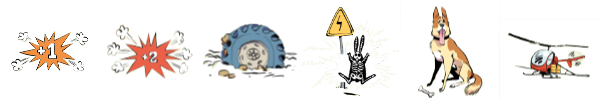
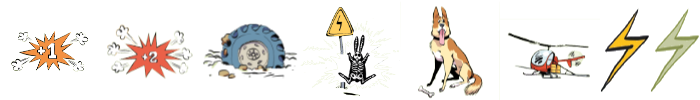
css sprites for tiles and barns

diff --git a/src/Game/style.scss b/src/Game/style.scss
@@ -66,16 +66,16 @@ body {
     position: absolute;
 }
 .player {
-    background-size: contain;
-    background-repeat: no-repeat;
+    background-image: url(~img/players.png);
+    background-size: 400% 300%;
     width: 2.5%;
     height: 2.5%;
     position: absolute;
 }
 
 .tile {
-    background-size: contain;
-    background-repeat: no-repeat;
+    background-image: url(~img/tiles.png);
+    background-size: 600% 100%;
     width: 9%;
     height: 9%;
     position: absolute;
@@ -107,15 +107,15 @@ body {
 }
 
 .barn {
-    background-size: contain;
     width: 9%;
     height: 9%;
     position: absolute;
-    background-image: url(~img/barn.png);
-    background-repeat: no-repeat;
+    background-image: url(~img/tiles.png);
+    background-size: 600% 100%;
+    background-position: -400% 0;
 }
 .barn.occupied {
-    background-image: url(~img/barn-occupied.png);
+    background-position: -500% 0;
 }
 
 i.fa-bars {
@@ -288,16 +288,17 @@ i.fa-bars {
 
 
     .flash {
-        background-image: url(~img/flash.png);
-        width: 1.5em;
+        background-image: url(~img/markers.png);
+        background-size: 1400% 100%;
+        background-position: 200% 0;
+        width: 0.75em;
         height: 1.5em;
+        margin-right: 0.15em;
         display: inline-block;
-        background-size: contain;
-        background-repeat: no-repeat;
     }
 
     .flash.inactive {
-        background-image: url(~img/flash-inactive.png);
+       background-position-x: 100%;
     }
 }
 
@@ -483,29 +484,10 @@ i.fa-bars {
             position: static;
         }
 
-        .blue {
-            .player:hover {
-                background-image: url(~img/selected-player-blue.png);
-            }
+        .player:hover {
+            background-position-y: -100%;
         }
 
-        .yellow {
-            .player:hover {
-                background-image: url(~img/selected-player-yellow.png);
-            }
-        }
-
-        .purple {
-            .player:hover {
-                background-image: url(~img/selected-player-purple.png);
-            }
-        }
-
-        .red {
-            .player:hover {
-                background-image: url(~img/selected-player-red.png);
-            }
-        }
     }
 }
 
@@ -530,7 +512,7 @@ i.fa-bars {
         width: 2.5em;
         height: 2.5em;
         background-image: url(~img/markers.png);
-        background-size: 600% 100%;
+        background-size: 700% 100%;
         background-position-y: 0;
         display: inline-block;
     }
@@ -610,19 +592,19 @@ i.fa-bars {
     }
 
     .player {
-        background-image: url(~img/player-blue.png);
+        background-position: 0 0;
     }
 
     .player.selected {
-        background-image: url(~img/selected-player-blue.png);
+        background-position: 0 -100%;
     }
 
     .player.ko {
-        background-image: url(~img/ko-player-blue.png);
+        background-position: 0 -200%;
     }
 
     .tile {
-        background-image: url(~img/tile-blue.png);
+        background-position: 0 0;
     }
 }
 .yellow {
@@ -631,38 +613,17 @@ i.fa-bars {
     }
 
     .player {
-        background-image: url(~img/player-yellow.png);
+        background-position: -100% 0;
     }
     .player.selected {
-        background-image: url(~img/selected-player-yellow.png);
-    }
-    .ko.selected {
-        background-image: url(~img/ko-player-yellow.png);
-    }
-
-    .tile {
-        background-image: url(~img/tile-yellow.png);
-    }
-}
-
-.red {
-    .fence {
-        background-image: url(~img/fence-red.png);
-    }
-
-    .player {
-        background-image: url(~img/player-red.png);
-    }
-
-    .player.selected {
-        background-image: url(~img/selected-player-red.png);
+        background-position: -100% -100%;
     }
     .player.ko {
-        background-image: url(~img/ko-player-red.png);
+        background-position: -100% -200%;
     }
 
     .tile {
-        background-image: url(~img/tile-red.png);
+        background-position: -100% 0%;
     }
 }
 
@@ -672,17 +633,40 @@ i.fa-bars {
     }
 
     .player {
-        background-image: url(~img/player-purple.png);
+        background-position: -200% 0;
     }
+
     .player.selected {
-        background-image: url(~img/selected-player-purple.png);
+        background-position: -200% -100%;
     }
+
     .player.ko {
-        background-image: url(~img/ko-player-purple.png);
+        background-position: -200% -200%;
     }
 
     .tile {
-        background-image: url(~img/tile-purple.png);
+        background-position: -200% 0%;
+    }
+}
+
+.red {
+    .fence {
+        background-image: url(~img/fence-red.png);
+    }
+
+    .player {
+        background-position: -300% 0;
+    }
+
+    .player.selected {
+        background-position: -300% -100%;
+    }
+    .player.ko {
+        background-position: -300% -200%;
+    }
+
+    .tile {
+        background-position: -300% 0%;
     }
 }
 
